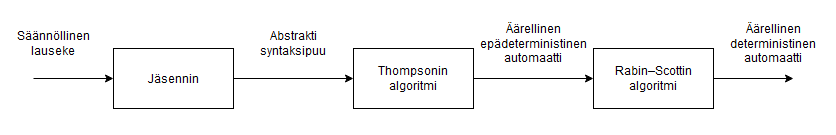
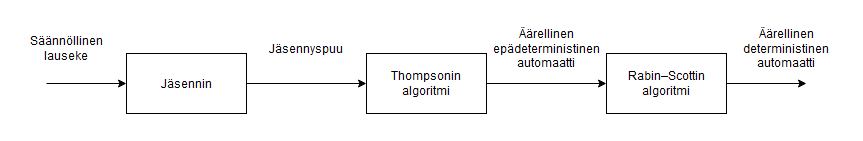
Change term abstract syntax tree to parse tree

diff --git a/dokumentaatio/toteutusdokumentti.md b/dokumentaatio/toteutusdokumentti.md
@@ -7,7 +7,7 @@ Ohjelma kääntää syötteenä saadun säännllisen lausekkeen äärelliseksi e
 2. Thompsonin algoritmi
 3. Rabin–Scottin algoritmi
 
-Kääntämisen vaiheet on esitetty kuvassa 1. Ohjelma saa syötteeksi säännöllisen lausekkeen tavallisena merkkijonoa. Jäsennin jäsentää säännöllisen lausekkeen abstraktiksi syntaksipuuksi. Thompsonin algoritmilla abstrakstista syntaksipuusta muodostetaan äärellinen epädeterministinen automaatti (NFA). Rabin–Scottin algoritmi muuntaa äärellisen epädeterministisen automaatin äärelliseksi deterministiseksi automaatiksi (DFA). 
+Kääntämisen vaiheet on esitetty kuvassa 1. Ohjelma saa syötteeksi säännöllisen lausekkeen tavallisena merkkijonoa. Jäsennin jäsentää säännöllisen lausekkeen jäsennyspuuksi. Thompsonin algoritmilla jäsennyspuusta muodostetaan äärellinen epädeterministinen automaatti (NFA). Rabin–Scottin algoritmi muuntaa äärellisen epädeterministisen automaatin äärelliseksi deterministiseksi automaatiksi (DFA). 
 
 ![compiling](./imgs/compiling.png)
 
@@ -22,13 +22,13 @@ Merkkijonon tarkastaminen säännöllistä lauseketta vasten on esitetty kuvassa
 ### Jäsennin
 
 * Syöte: säännöllinen lauseke
-* Tuloste: abstrakti syntaksipuu
+* Tuloste: jäsennyspuu
 
 Jäsennin on bottom-up shift-reduce -tyyppinen.
 
 ### Thompsonin algoritmi
 
-* Syöte: abstrakti syntaksipuu
+* Syöte: jäsennyspuu
 * Tuloste: äärellinen epädeterministinen automaatti
 
 TODO
